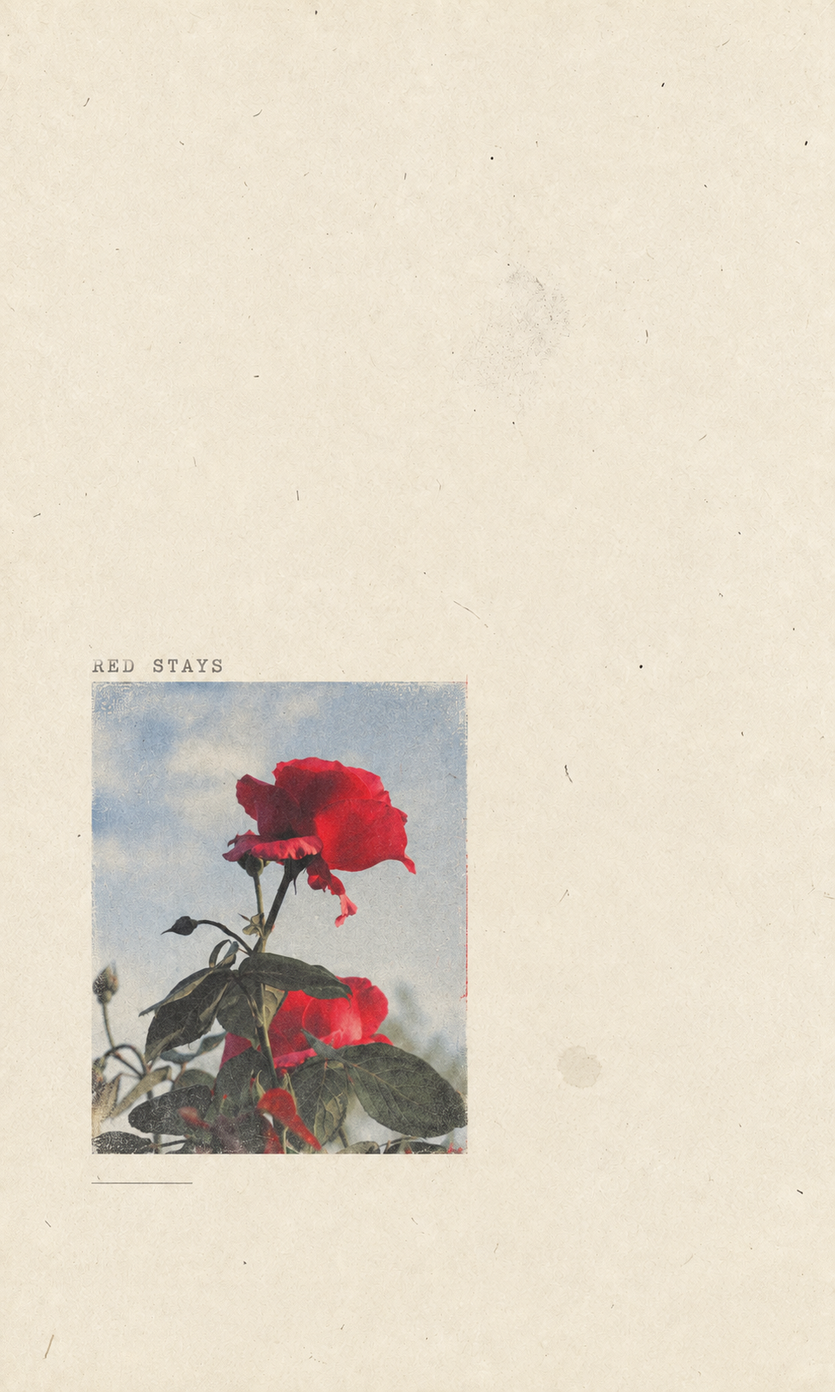
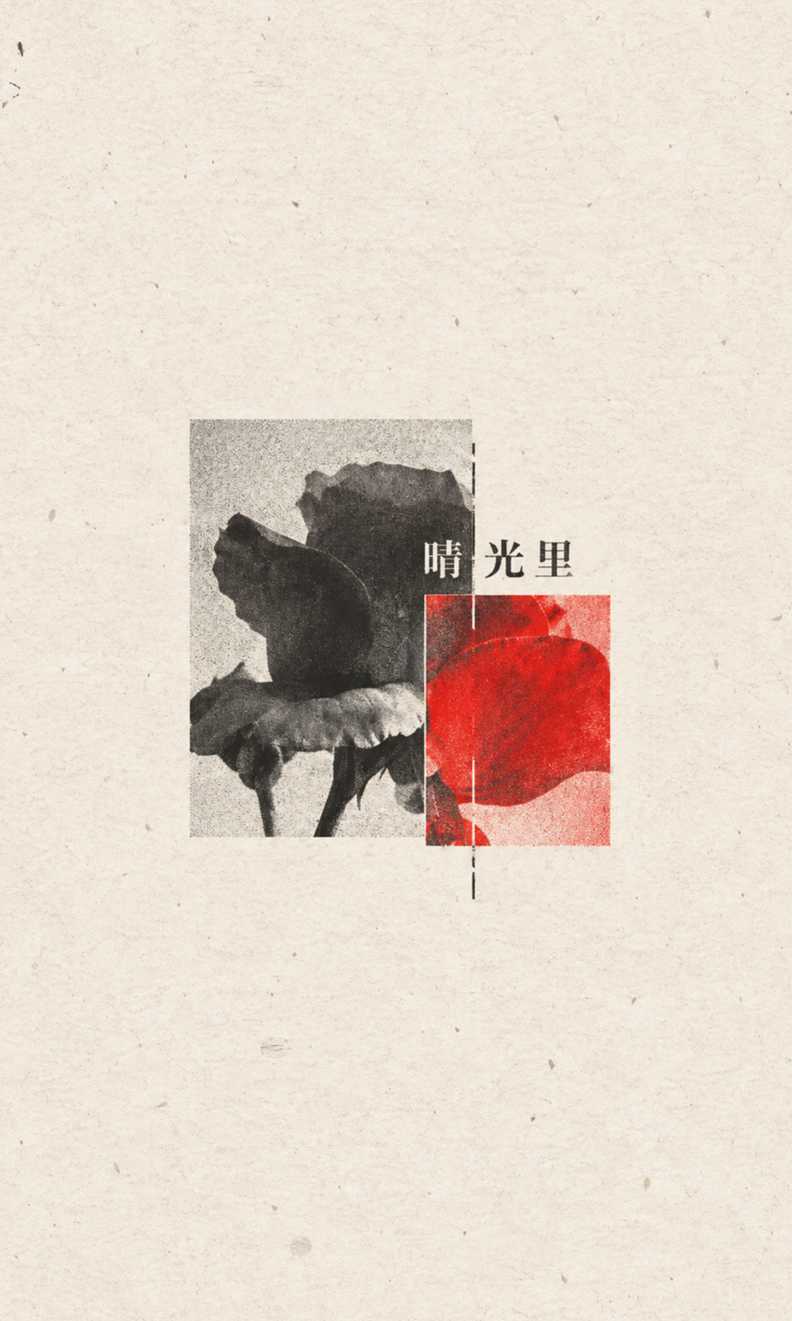
Restore original minimal zine mode

Changed region(s): [[0.0911, 0.3125, 0.7896, 0.8438], [0.6681, 0.75, 0.7289, 0.7812]]

diff --git a/app/api/generate/route.ts b/app/api/generate/route.ts
@@ -17,7 +17,7 @@ import {
 } from "../../photo-domain-geometry";
 import type { RelationshipEvidence, SubjectFrameContact } from "../../photo-domain-geometry";
 import { streamResult } from "../../generation-transport";
-import { createHmac, timingSafeEqual } from "node:crypto";
+import { createHmac, randomInt, timingSafeEqual } from "node:crypto";
 import { readFile } from "node:fs/promises";
 import path from "node:path";
 
@@ -29,7 +29,7 @@ type GenerateRequest = {
   instruction?: string;
   textPosition?: string;
   ratio?: string;
-  minimalLayoutMode?: "locked" | "random";
+  minimalLayoutMode?: "original" | "enlarged";
   mode?: "new" | "refine";
   qualityCorrection?: string;
   stage?: "plan" | "image" | "review";
@@ -197,10 +197,47 @@ const ratioPrompts: Record<string, string> = {
   square: "输出 1:1 方形画面。",
 };
 
-function minimalZineTextRule(instruction?: string, textPosition?: string) {
+const minimalOriginalVariants = [
+  "center-fragment + flat silhouette + fragmented floating letters",
+  "lower-left-float + old printed illustration + edge-pressed phrase",
+  "upper-right-block + opaque printed color block + text inside the block",
+  "dual-panel + clean rectangular photo crop + archive microtext",
+  "irregular-cutout + torn-paper clipping + almost-textless caption",
+  "type-led + fragmented type as image + rough letterpress phrase",
+  "dot-orbit + object specimen + scattered letters",
+  "single-specimen + object specimen + low-contrast ghost text",
+  "diagonal-notes + translucent geometric overlay + diagonal words",
+  "edge-counterweight + abstract texture window + distant microtext",
+] as const;
+
+function minimalZineTextRule(layoutMode: GenerateRequest["minimalLayoutMode"], instruction?: string, textPosition?: string) {
   const requested = instruction?.trim();
-  if (!requested) return "用户没有提供文案。输出必须完全无字，不得自行生成标题、诗句、日期、编号、标点、Logo或水印。";
-  return `用户补充要求：${requested}\n只有其中明确要求添加的文字才可出现，并须逐字准确。文字必须紧贴、轻微压住或嵌入照片视觉簇边缘，最近间距不超过画布短边3%，不得单独放在远处形成第二重心。位置偏好“${textPosition || "AI 自动"}”只能在视觉簇附近执行。若要求不要文字则完全无字。`;
+  const noText = Boolean(requested && /不要文字|不要字|无字|去掉文字|no\s*text|textless/i.test(requested));
+  if (noText || (layoutMode === "enlarged" && !requested)) {
+    return "本次必须完全无字，不得出现标题、诗句、日期、编号、标点、Logo或水印。文字轴必须改由视觉簇内部的非文字关系承担：从照片裁片＋单色色块、两片相邻或轻叠裁片、标本对象＋中断细线、局部照片＋透明几何片中只选一种关系；它们必须共同构成一个编辑事件，不能退化为孤立抠图或整株照片贴纸。";
+  }
+  if (!requested) {
+    return "用户没有提供文案。按 GitHub 原版自行创作一句与当前照片隐喻有关的极短私人注记：中文2至8字或英文2至5词；可加极少档案微字。使用打字机体、旧衬线、等宽或克制小号无衬线，让文字压边、嵌入色块或参与视觉簇关系，不能成为广告标题或远处无关装饰。";
+  }
+  return `用户补充要求：${requested}\n若其中给出明确文案则逐字使用；若只是情绪或主题要求，则据此创作一句中文2至8字或英文2至5词的极短私人注记。文字使用打字机体、旧衬线、等宽或克制小号无衬线，并以压边、嵌入色块、沿裁片边缘或作为粗糙字形对象的方式参与视觉事件。位置偏好“${textPosition || "AI 自动"}”必须服从所选原版配方，不得形成商业标题或与主事件无关的第二重心。`;
+}
+
+function minimalZineCompilerContract(enlarged: boolean, textRule: string) {
+  const geometry = enlarged
+    ? "自定义放大版：强制3:5竖版，唯一视觉簇位于左下区域，整体外接框占全画布22%至25%；低于20%或高于27%均不合格。上方和右侧保持主要开放纸面。"
+    : "GitHub 原版：默认3:5竖版，根据当前照片从 center-fragment、lower-left-float、upper-right-block、dual-panel、irregular-cutout、type-led、dot-orbit、single-specimen、diagonal-notes、edge-counterweight 中选择一个布局族；70%至90%为开放纸面，唯一视觉簇占8%至25%，不得固定套用左下或任何网页案例。";
+  return `格式：{"photoAnalysis":"80至180字，明确照片角色、High或Medium保留等级、可见不变量、情绪与一个可图像化隐喻","recipe":"严格使用八段斜杠记录：[布局族 / 视觉隐喻 / 焦点载体 / 排版模式或无字替代关系 / 唯一强调色及可见载体 / 纹理模式 / 零至三个装饰元素 / 情绪]","finalPrompt":"严格按四段编写的完整极简Zine生图提示词，500至900字"}。严格执行 GitHub 原版 Minimal Zine Poster v0.3.1。${geometry}
+第一段必须写比例、满版纸色、纸纤维/细颗粒/尘点/扫描噪声/轻微老化中的具体表面组合、无边框无样机、开放纸面比例，以及视觉簇的准确位置与占比。
+第二段把输入照片定义为 edit target。普通花草和景物使用 Medium 保留：只锁定主要类别、决定性轮廓和标志色，明确允许明显裁切、缩放、局部去色、印刷化及重新组织；人物、宠物、角色、艺术品和产品使用 High 保留。先提炼一个解释当前内容的可图像化隐喻，再从 faded photo、clean rectangular photo crop、torn-paper clipping、flat silhouette、opaque printed color block、old printed illustration、object specimen、translucent geometric overlay、abstract texture window、fragmented type 中选择一个具体焦点载体。禁止只把整张照片或完整主体缩小贴在纸上。
+第三段执行文字规则：${textRule} 选定一种明确排版模式；无字时必须写出替代排版轴的非文字关系。只用一种具体高纯强调色，并写明它由主体局部、裁片、色块或粗糙字形中的哪一种承载；彩色面积占全画布0.8%至2.5%或视觉簇15%至35%。同时选择一种主纹理和零至三个克制装饰元素，让焦点、文字或替代结构属于同一个印刷世界。
+第四段写平视扫描、哑光吸墨、漫射光、低至中对比及具体情绪；禁止满版场景、商业标题、广告、Logo、CTA、光滑样机、电影光、硬阴影、景深、3D、霓虹、卡通、时尚大片、密集手账、多对象与多色模板。recipe 与 finalPrompt 必须逐项一致，缺少任一配方轴即为不完整方案。`;
+}
+
+function minimalZineGenerationContract(enlarged: boolean, textRule: string) {
+  const modeRule = enlarged
+    ? "自定义放大版：强制3:5竖版，唯一视觉簇位于左下区域并占全画布22%至25%，上方和右侧保留主要纸面。所有内容直接印在同一纸面，不得有投影、翘角、厚度、抬起纸片、层叠纸卡或实体手工样机深度。"
+    : "GitHub 原版：默认3:5竖版，按方案选定的布局族执行，70%至90%为开放纸面，唯一视觉簇占8%至25%，不得固定套用左下构图。所有内容直接印在同一纸面，不得有投影、翘角、厚度、抬起纸片、层叠纸卡或实体手工样机深度。";
+  return `\n输入图是用户唯一的 edit target，不存在第二张风格参考图。${modeRule} 必须把方案中的八段配方逐项变成可见像素：布局族、视觉隐喻、具体焦点载体、排版或无字替代关系、唯一强调色及载体、纹理、装饰和情绪缺一不可。普通花草和景物采用 Medium 保留，只保留主类别、决定性轮廓和标志色，允许强裁切、缩放、局部去色、网点化、复印柔化、重新组织和与色块叠合；不要保留完整原画幅，也不要把完整主体抠成孤立贴纸。人物、宠物、角色、艺术品和产品才采用 High 保留。${textRule} 所有照片、文字与图形必须进入同一平面印刷世界。只用一种缩略图可见的高纯强调色，约占全画布0.8%至2.5%或视觉簇15%至35%。禁止完整照片缩小贴纸、只有抠图没有关系、满版场景、商业广告、Logo、CTA、样机、硬阴影、3D、霓虹、卡通、密集手账或多色模板。`;
 }
 
 const defaultModelChain = [
@@ -276,11 +313,52 @@ function relationshipDomainFallback(subjectBox: { x: number; y: number; width: n
   };
 }
 
-function parseSkillPlan(raw: string, adapterId: string): SkillPlan {
+function firstJsonObject(raw: string) {
   const cleaned = raw.trim().replace(/^```(?:json)?\s*/i, "").replace(/\s*```$/, "");
-  const parsed = JSON.parse(cleaned) as Partial<SkillPlan>;
+  try { return JSON.parse(cleaned) as Record<string, unknown>; } catch { /* extract one complete object below */ }
+  const start = cleaned.indexOf("{");
+  let depth = 0;
+  let quoted = false;
+  let escaped = false;
+  for (let index = start; index >= 0 && index < cleaned.length; index++) {
+    const character = cleaned[index];
+    if (quoted) {
+      if (escaped) escaped = false; else if (character === "\\") escaped = true; else if (character === '"') quoted = false;
+      continue;
+    }
+    if (character === '"') quoted = true;
+    else if (character === "{") depth++;
+    else if (character === "}" && --depth === 0) return JSON.parse(cleaned.slice(start, index + 1)) as Record<string, unknown>;
+  }
+  throw new Error("Skill 没有返回可读取的 JSON 方案。");
+}
+
+function parseSkillPlan(raw: string, adapterId: string): SkillPlan {
+  const parsed = firstJsonObject(raw) as Partial<SkillPlan>;
   if (!parsed.photoAnalysis || !parsed.recipe || !parsed.finalPrompt) throw new Error("Skill 没有返回完整方案。");
   const plan: SkillPlan = { photoAnalysis: parsed.photoAnalysis, recipe: parsed.recipe, finalPrompt: parsed.finalPrompt };
+  if (adapterId === "minimal-zine") {
+    const recipeAxes = plan.recipe.split(/[/／]/).map((part) => part.trim()).filter(Boolean);
+    const promptParagraphs = plan.finalPrompt.split(/\n\s*\n/).map((part) => part.trim()).filter(Boolean);
+    const promptLines = plan.finalPrompt.split(/\n+/).map((part) => part.trim()).filter(Boolean);
+    const designRecord = `${plan.recipe}\n${plan.finalPrompt}`;
+    const hasFourSemanticSections = [
+      /3:5|纸色|纸纤维|开放纸面|负空间/,
+      /edit target|照片|裁片|剪贴|标本|载体/,
+      /排版|文字|短注记|无字|强调色|色块/,
+      /扫描|漫射光|对比|情绪|禁止|避免/,
+    ].every((pattern) => pattern.test(plan.finalPrompt));
+    if (recipeAxes.length < 8) throw new Error("极简 Zine 方案没有完成八段变化配方。");
+    if (promptParagraphs.length < 4 && promptLines.length < 4 && !hasFourSemanticSections) {
+      throw new Error("极简 Zine 方案没有完成原版四段语义结构。");
+    }
+    if (!/照片|裁片|剪裁|裁切|撕纸|剪贴|标本|剪影|插图|色块|几何|纹理窗|字体|字形|片段|碎片|photo|crop|clipping|specimen|silhouette|illustration|ink block|geometric|texture window|fragmented type/i.test(designRecord)) {
+      throw new Error("极简 Zine 方案没有指定可见的焦点载体。");
+    }
+    if (!/半调|网点|复印|印刷|油墨|risograph|凸版|扫描线|错版|纸边|颗粒|halftone|xerox|print|ink|letterpress|misregistration/i.test(designRecord)) {
+      throw new Error("极简 Zine 方案没有指定印刷复现方式。");
+    }
+  }
   if (adapterId === "portrait-relight") {
     const relight = parsed.relight as Partial<NonNullable<SkillPlan["relight"]>> | undefined;
     if (!relight) throw new Error("没有定位到需要补光的人物区域。");
@@ -514,18 +592,21 @@ function scenePaperCollageFallbackPlan(body: GenerateRequest, instruction: strin
 async function compileSkillPlan(apiKey: string, body: GenerateRequest, instruction: string, adapter: typeof skillAdapters[string]) {
   const sourceDimensions = imageDimensions(body.analysisImage || body.image || "");
   const sourceOrientation = sourceDimensions && sourceDimensions.width > sourceDimensions.height ? "landscape" : "portrait";
-  const minimalRandom = body.minimalLayoutMode === "random";
-  const ratioRule = adapter.id === "minimal-zine" && !minimalRandom
-    ? "固定放大版强制输出3:5竖版纸张海报，不得改为原图比例、3:4、横版或方形。"
-    : adapter.id === "minimal-zine" && (body.ratio || "original") === "portrait"
-      ? "输出3:5竖版纸张海报。"
+  const minimalEnlarged = body.minimalLayoutMode === "enlarged";
+  const minimalOriginalVariant = adapter.id === "minimal-zine" && !minimalEnlarged && body.mode !== "refine"
+    ? minimalOriginalVariants[randomInt(minimalOriginalVariants.length)]
+    : "";
+  const ratioRule = adapter.id === "minimal-zine" && minimalEnlarged
+    ? "自定义放大版强制输出3:5竖版纸张海报，不得改为原图比例、3:4、横版或方形。"
+    : adapter.id === "minimal-zine" && (!body.ratio || body.ratio === "original" || body.ratio === "portrait")
+      ? "GitHub 原版默认输出3:5竖版纸张海报。"
     : adapter.id === "gathered-scenes" && (body.ratio || "original") === "original"
     ? sourceOrientation === "landscape"
       ? "保持源图横向阅读，输出5:3横版纸拼海报。"
       : "保持源图纵向阅读，输出3:5竖版纸拼海报。"
     : ratioPrompts[body.ratio || "original"];
   const textRule = adapter.id === "minimal-zine"
-    ? minimalZineTextRule(instruction, body.textPosition)
+    ? minimalZineTextRule(body.minimalLayoutMode || "original", instruction, body.textPosition)
     : adapter.id === "light-ink-wash"
     ? lightInkWashTextRule(instruction, body.textPosition, body.mode)
     : instruction
@@ -535,14 +616,16 @@ async function compileSkillPlan(apiKey: string, body: GenerateRequest, instructi
       : "用户没有补充要求。不得自行添加标题、日期、编号、Logo、水印或虚构信息。";
   const taskRule = body.mode === "refine"
     ? "这是继续修改：输入图是上一版成品。只编译本次修改需要的精确编辑指令，并锁定其他已存在的内容、风格、人物和构图。"
-    : adapter.id === "minimal-zine" && !minimalRandom
-      ? "这是首次生成：使用固定放大版的构图几何，但主体、裁片形状、强调色和隐喻必须来自当前上传照片。网页案例只用于锁定左下位置、22%至25%视觉簇和留白关系，不得复制案例主体或文案。"
+    : adapter.id === "minimal-zine" && minimalEnlarged
+      ? "这是首次生成：执行自定义放大版几何，但仍须从当前照片选择一个视觉隐喻、一个具体焦点载体、一种高纯强调色及载体、一种印刷纹理与零至三个克制装饰元素；无字不等于无设计。"
+    : adapter.id === "minimal-zine"
+      ? `这是首次生成：完整执行 GitHub 原版变化系统。先从当前照片内容中提炼一个视觉隐喻，再让本次抽取的变化轴“${minimalOriginalVariant}”服务于这个隐喻；不得擅自换回更熟悉的布局、焦点载体或排版。继续选择纹理模式、纸色、主强调色及其可见载体、装饰系统与情绪。不能套网页案例或上一版玫瑰构图。`
     : "这是首次生成：根据输入照片独立做出适合这张照片的构图选择，不要复刻网页案例图。";
   const isPortraitRelight = adapter.id === "portrait-relight";
   const outputFormat = isPortraitRelight
     ? `格式：{"photoAnalysis":"60至160字","recipe":"60至180字","finalPrompt":"说明像素级后期方案，不能要求重新生成照片","relight":{"faceBox":{"x":0至1,"y":0至1,"width":0至1,"height":0至1},"personBox":{"x":0至1,"y":0至1,"width":0至1,"height":0至1},"faceExposureEv":0.25至0.60,"subjectExposureEv":0.06至0.26,"highlightCompression":0至0.35,"warmth":-0.12至0.12,"overlayText":"仅在用户明确要求时逐字填写，否则空字符串"}}。Box 必须是输入图中的准确归一化边界框，x/y 是左上角。只定位主要人物；faceBox 包住脸和少量头发，personBox 包住完整可见身体。曝光值必须克制，背景已很亮时不得通过提高全局曝光解决。`
     : adapter.id === "minimal-zine"
-      ? `格式：{"photoAnalysis":"80至180字，明确照片角色、High或Medium保留等级、可见不变量、主题情绪与一个可图像化隐喻","recipe":"100至240字，明确构图模式 / 隐喻 / 焦点载体 / 文字状态 / 唯一强调色及载体 / 纹理 / 情绪","finalPrompt":"严格按四段编写的完整极简Zine生图提示词，500至900字"}。严格执行 GitHub 原版 Minimal Zine Poster v0.3.1。${minimalRandom ? "用户主动选择随机构图：根据当前照片从原版变化系统选择一种布局；保持70%至90%开放纸面，唯一视觉簇可占全画布8%至25%，不得机械复制网页案例。" : "用户选择默认固定放大版：强制3:5竖版，唯一视觉簇固定在左下区域，整体外接框必须占全画布22%至25%；低于20%不合格，高于27%不合格。照片主体必须成为视觉簇主角，上方和右侧保留主要开放纸面；禁止右上小图、中心小图、远端文字和第二视觉重心。网页案例仅用于锁定该几何关系，不得复制案例玫瑰或文案。"} 第二段明确输入照片是 edit target 或 supporting insert，选择 High 或 Medium 保留，并逐项写出必须保持可辨的主体身份、数量、比例、轮廓、标志性颜色和关键细节；只允许裁切、缩放、纸张表面与周围排版改变。只选择一个来自当前照片的视觉隐喻，并用照片裁片、撕纸剪贴、标本式对象、印刷插图、色块或字体对象中的一种具体载体呈现，不能扩展成完整场景。第三段严格遵守本次文字规则：${textRule} 只用一种具体高纯强调色，由主体、剪贴、色块或粗糙字形承载，占全画布约0.8%至2.5%或视觉簇15%至35%，缩略图仍清楚；加入半调、复印柔化、risograph颗粒、凸版渗墨、纸边、扫描线或轻微错版，使照片与允许出现的文字属于同一印刷世界。第四段写平视扫描、漫射光、低至中对比和安静诗性情绪，并禁止满版场景、商业标题、广告、Logo、CTA、光滑样机、电影光、硬阴影、景深、3D、霓虹、卡通、时尚大片、密集手账、多对象和多色模板。`
+      ? minimalZineCompilerContract(minimalEnlarged, textRule)
     : adapter.id === "abstract-editorial"
       ? `格式：{"photoAnalysis":"80至180字，说明照片主体、主轴、层级、负空间、最适合的分界方向及三至六个可提炼关系","recipe":"80至220字，明确真实摄影区、抽象区、分界线和色彩角色","finalPrompt":"生成真实摄影与抽象结构直接相接的编辑成品，500至1000字","photoWindow":{"x":0至1,"y":0至1,"width":0至1,"height":0至1}}。photoWindow 是最终必须使用用户原图像素覆盖的连续矩形区域，必须包含完整核心主体且占画面约42%至68%，不能机械对半。根据照片主轴选择横向或纵向分界：竖向建筑、站立人物或上下层级明显的画面，优先用横向分界，让摄影区覆盖上部或主体所在部分，抽象区承接下部的台阶、地面或节奏；横向运动、左右关系明显时才使用纵向分界。真实摄影区与抽象区必须共用同一坐标和透视关系，直接相接且没有边框、阴影、相框、胶带或纸张样机。抽象区不是主体的第二张插画，不得描摹、复制或重画人物、建筑、花朵或物件；只能从原图提取三至六个决定性关系，转成一种主要形态家族，例如平整矩形与短线、弧线与间隔、台阶折线与重复柱距，最多两个辅助形态家族。抽象区必须有明确的视觉事件和层级，不能只是一整块空色、渐变天空、空白广告牌或几条无意义水平线。色彩只能从原图提取，使用一块主色、一个结构色和最多一个小面积强调色；平整无纹理，无霓虹、发光、镜像、重影、写实复制、渐变和装饰图标。输出无文字，除非用户明确要求。`
     : adapter.id === "gathered-scenes"
@@ -576,7 +659,7 @@ Skill：${adapter.name}
       ],
       response_format: { type: "json_object" },
       reasoning_effort: "minimal",
-      temperature: adapter.id === "gathered-scenes" ? 0.12 : 0.2,
+      temperature: adapter.id === "gathered-scenes" ? 0.12 : adapter.id === "minimal-zine" ? 0.48 : 0.2,
       max_tokens: adapter.id === "gathered-scenes" ? 4200 : 1800,
     }),
     signal: AbortSignal.timeout(90_000),
@@ -771,14 +854,14 @@ async function previewStyleReference(fileName: string) {
 async function reviewGeneratedImage(apiKey: string, body: GenerateRequest, outputImage: string, adapter: typeof skillAdapters[string], timeoutMs: number) {
   const policy = qualityPolicies[adapter.id];
   if (!policy) return undefined;
-  const minimalRandom = body.minimalLayoutMode === "random";
+  const minimalEnlarged = body.minimalLayoutMode === "enlarged";
   const gatheredScoreCaps = adapter.id === "gathered-scenes"
     ? "拾景纸刊强制评分上限：主体身份、脸、表情、姿态、手、解剖、衣服、决定性物体、自然颜色、曝光、透视、归一化位置或大小明显改变，总分不得超过55且 criticalFailure=true；摄影域内部任何明显网点、素描、干刷、拓印、透明颜料或局部重绘，总分不得超过60且 criticalFailure=true；摄影域超过整页60%，总分不得超过68；主体或必要接触/支撑物被裁掉，总分不得超过62；开口是固定窗口、矩形、圆角矩形、对称徽章、贴纸白边或紧贴主体的蒙版，总分不得超过68；外部背景无法对应原图P域之外的真实景物，总分不得超过65；P外出现未分配画板或独立空白内容区，总分不得超过62；外部背景近乎空白、只有毛刺或零星短线，总分不得超过68；纸裁两侧可对应背景的方位、透视、方向、尺度或层级明显断裂，或整体像照片贴到另一张背景上，总分不得超过65；新增人物物体植物建筑、完整第二场景、Logo或水印，总分不得超过55且 criticalFailure=true；出现厚阴影、翘角、层叠卡片或样机深度，总分不得超过65。"
     : "";
   const styleReviewContract = adapter.id === "minimal-zine"
-    ? minimalRandom
-      ? "用户主动选择随机构图。允许按 GitHub 原版变化系统选择布局，但仍必须保持70%至90%开放纸面、一个占8%至25%的视觉簇、一个明确视觉事件和一种高纯强调色。没有明确文案时必须完全无字；有文案时文字须与视觉簇形成一个整体。"
-      : "用户选择固定放大版。强制核对：画布是3:5竖版；唯一视觉簇的整体外接框位于左下区域并占全画布22%至25%，低于20%时总分不得超过68，高于27%时总分不得超过68；上方和右侧保留主要开放纸面；右上小图、中心小图或独立远端文字均不合格。用户没有明确文案时，出现任何标题、诗句、日期、编号或字符，总分不得超过60；用户提供文案时，文字必须紧贴、轻微压住或嵌入照片簇边缘，最近间距不得超过画布短边3%，远处文字形成第二重心时总分不得超过65。"
+    ? minimalEnlarged
+      ? "用户选择自定义放大版。强制核对：3:5竖版，唯一视觉簇位于左下区域并占全画布22%至25%；低于20%或高于27%时总分不得超过68。默认无字；即使无字，也必须出现照片裁片与单色色块、双裁片、标本与中断线或局部照片与几何片中的一种紧密关系。若只是完整主体或完整原图抠图贴在纸上，没有第二个关系载体，总分不得超过60。"
+      : "用户选择 GitHub 原版。强制核对：默认3:5，70%至90%开放纸面，一个占8%至25%的视觉事件；必须清楚表现一种布局族、一个来自照片内容的视觉隐喻、一种具体焦点载体、一种参与视觉事件的排版模式、一种缩略图可见的高纯强调色及载体、统一印刷纹理和安静情绪。若只是把完整原照片缩小、抠图或贴在纸上，缺少隐喻关系、具体载体或编辑结构，总分不得超过58；照片、文字与图形明显不属于同一印刷世界时总分不得超过62；没有用户文案却缺少原版短注记时总分不得超过65；出现任何可见投影、悬浮纸片、翘边、厚纸层或实体拼贴样机深度时总分不得超过58且criticalFailure=true；强调色、装饰或文字若游离于主视觉簇之外形成第二视觉事件，总分不得超过62。"
     : adapter.id === "gathered-scenes"
     ? `对于拾景纸刊按九项验收：1) subjectGeometry：主体和必要接触/支撑物保持原图身份、姿态、透视、归一化位置与大小；2) photoDomainAnchor：摄影域继承原图主体关系域的全画布坐标，从主体原位置向必要支撑物与少量关系环境扩张，不得把摄影域或主体移向左上、中央或固定象限，也不要求主体位于摄影域中心；3) photoDomainCoverage：只有一处摄影域，包含主体关系域但排除大部分背景，面积通常28%至58%且绝不超过60%；4) photoDomainPurity：摄影域从撕边到撕边只能是自然原图，内部没有网点、素描、干刷、拓印、透明颜料或局部绘画；5) relationshipBoundary：撕边由主体—支撑物—背景关系及原图直接可见的空间分界形成，不是固定窗口或紧边抠图；6) fullPageBackground：P外全部属于I背景域，没有未分配画板或独立空白内容区，低信息处仍由源背景色彩、明暗、纹理或方向决定；7) boundaryContinuity：至少两处背景结构或一处宽阔背景表面在撕边两侧保持方位、透视、方向、尺度和层级对应，不能像把照片贴到另一张背景上；8) sourceTraceability：外部每个可辨场景元素均能指回原图且没有完整第二场景或新增场景元素；9) materialAndArtifact：合规材料不能被误判为场景对象，同时禁止Logo、水印、界面、样机与立体纸层。${adapter.id === "gathered-scenes" ? `${scenePaperCollageFullPageTopology}\n${scenePaperCollageLayerOntology}` : ""}${gatheredScoreCaps}拾景纸刊中，暖白纸基底、纸纤维、撕边、印刷质感与扫描颗粒是合规材料，不得因为原图没有这些材料而判为额外场景元素；但材料不能形成第三块内容域。只有确认原图不存在的场景语义元素才属于新增对象。`
     : "仅按当前选中工作流的保留规则与文字许可验收。允许整图绘画化的工作流，不要求存在原图摄影域；风格规定的纸底、笔触和留白属于合规材料。";
@@ -792,7 +875,7 @@ async function reviewGeneratedImage(apiKey: string, body: GenerateRequest, outpu
         { role: "user", content: [
           { type: "image_url", image_url: { url: body.analysisImage || body.image } },
           { type: "image_url", image_url: { url: outputImage } },
-          { type: "text", text: `工作流：${adapter.name}\n工作流要求：${adapter.workflow}\n重点验收：${adapter.review}\n保留规则：${policy.preservation}\n用户补充要求：${adapter.id === "light-ink-wash" ? lightInkWashTextRule(body.instruction, body.textPosition, body.mode) : body.instruction?.trim() || (adapter.id === "gathered-scenes" ? "无；默认优先无字，必要时只允许一行一至四个简单场景词。" : adapter.id === "minimal-zine" ? "无；固定放大版与随机构图均必须完全无字。" : "无；不得自行添加文字。")}` },
+          { type: "text", text: `工作流：${adapter.name}\n工作流要求：${adapter.workflow}\n重点验收：${adapter.review}\n保留规则：${policy.preservation}\n用户补充要求：${adapter.id === "minimal-zine" ? minimalZineTextRule(body.minimalLayoutMode || "original", body.instruction, body.textPosition) : adapter.id === "light-ink-wash" ? lightInkWashTextRule(body.instruction, body.textPosition, body.mode) : body.instruction?.trim() || (adapter.id === "gathered-scenes" ? "无；默认优先无字，必要时只允许一行一至四个简单场景词。" : "无；不得自行添加文字。")}` },
         ] },
       ],
       response_format: { type: "json_object" },
@@ -957,9 +1040,10 @@ async function runGeneration(body: GenerateRequest, apiKey: string, adapter: typ
     ? `\n最高优先级任务：严格执行同一照片P摄影主体域／I绘画背景域的全幅二域构图，并用M拼贴材料层承载。${scenePaperCollageContract}\n只把用户原照片作为编辑目标，不把它当作可自由重画的参考；不要输入案例图或第二张风格图。P不得超过整页60%，内部只能是原图自然摄影；I占据P之外100%的页面，只从同一原图背景转译，低信息处也必须由源背景的颜色、明暗、纹理或方向决定；M是规定的纸张与印刷材料，不是需要从原图匹配的场景对象，也不能成为第三块空白内容域。若上一版只有某一项失败，只修正该失败项，不重新设计已成功的主体、支撑关系、撕边或纸面印痕。`
     : "";
   const minimalGuardrail = adapter.id === "minimal-zine"
-    ? body.minimalLayoutMode === "random"
-      ? `\n输入图1是用户原照片，必须按方案中的 edit target 或 supporting insert 角色及 High/Medium 保留等级处理。输入图2只是 GitHub 原版风格参考；不要复制其中的玫瑰、文案或具体构图。用户主动选择随机构图：保持70%至90%开放纸面，只能有一个占8%至25%的主要视觉事件，并从原版变化系统中选择适合当前照片的布局。主体身份、数量、比例、轮廓、标志性颜色与关键细节保持可辨。${minimalZineTextRule(instruction, body.textPosition)}只使用一种缩略图可见的高纯强调色，所有元素保持同一平面印刷扫描世界。`
-      : `\n输入图1是用户原照片，必须按方案中的 edit target 或 supporting insert 角色及 High/Medium 保留等级处理。输入图2是固定放大版的几何参考：只锁定3:5画布、左下视觉簇、22%至25%整体占比，以及照片与可选文字组成一个紧密整体；不得复制参考图中的玫瑰身份或具体文案。视觉簇整体外接框必须位于左下区域并占全画布22%至25%，照片主体是视觉簇主角，上方和右侧保留主要开放纸面。禁止右上小图、中心小图、低于20%的过小照片、超过27%的过大照片、远端孤立文字和第二视觉重心。主体身份、数量、比例、轮廓、标志性颜色与关键细节保持可辨。${minimalZineTextRule(instruction, body.textPosition)}只使用一种缩略图可见的高纯强调色，所有元素保持同一平面印刷扫描世界。`
+    ? minimalZineGenerationContract(
+        body.minimalLayoutMode === "enlarged",
+        minimalZineTextRule(body.minimalLayoutMode || "original", instruction, body.textPosition),
+      )
     : "";
   const abstractGuardrail = adapter.id === "abstract-editorial"
     ? "\n输入图1是用户原照片，是主体、构图和颜色的唯一事实来源。输入图2是我们自制的结构关系样张，只借鉴‘一块真实摄影区与一块抽象关系区直接相接’的编辑逻辑，严禁复制样张中的建筑、屋檐、台阶、树木、固定上下版式或具体颜色。网页稍后会把 photoWindow 区域覆盖为用户原图像素，所以该区域必须保持与输入图1完全同构图、同位置、同尺度；你重点生成其余抽象区。抽象区必须把当前照片的三至六个关系转成清楚的平面结构，例如层级、轴线、间隔、方向、尺度或负空间，而不是复制一个简化版主体。严禁左右五五分、上下五五分、空蓝面板、渐变色块、几条孤立水平线、第二座建筑、第二个人物、矢量描摹、照片镜像、边框和样机。分界线必须顺着当前照片中的地平线、建筑层级、台阶起点、人物视线或运动方向，并让抽象形态在接缝处承接真实摄影中的结构。"
@@ -1004,9 +1088,7 @@ async function runGeneration(body: GenerateRequest, apiKey: string, adapter: typ
       break;
     }
     try {
-      const styleReferences = adapter.id === "minimal-zine"
-          ? [await previewStyleReference("minimal-zine.png")].filter((value): value is string => Boolean(value))
-        : adapter.id === "abstract-editorial"
+      const styleReferences = adapter.id === "abstract-editorial"
           ? [await previewStyleReference("abstract-editorial.jpg")].filter((value): value is string => Boolean(value))
           : [];
       const imageInputs = [body.image, ...styleReferences];

diff --git a/app/page.tsx b/app/page.tsx
@@ -70,7 +70,7 @@ type GenerationResponse = {
 };
 
 const scenes: Scene[] = [
-  { id: "minimal-zine", name: "极简 Zine", eyebrow: "大片留白 · 微型编辑", description: "在暖白纸面上只留一个小型照片事件，用短字、印刷颗粒和一种高纯颜色制造安静张力。", fidelity: "保留主体，可裁切缩放", preview: "/previews/minimal-zine.png", credit: "GitHub 原版 Skill · gc-minimal-zine-poster v0.3.1", creditUrl: "https://github.com/LiamGvchi/gc-minimal-zine-poster", previewNote: "70%–90% 为开放纸面；视觉簇占 8%–25%。当前玫瑰案例使用放大后的约 24% 版本。" },
+  { id: "minimal-zine", name: "极简 Zine", eyebrow: "大片留白 · 微型编辑", description: "在暖白纸面上只留一个小型编辑事件，用视觉隐喻、短字、印刷颗粒和一种高纯颜色制造安静张力。", fidelity: "保留主体，可裁切与重新组织", preview: "/previews/minimal-zine.png", credit: "GitHub 原版 Skill · gc-minimal-zine-poster v0.3.1", creditUrl: "https://github.com/LiamGvchi/gc-minimal-zine-poster", previewNote: "当前玫瑰图是 GitHub 原版双面板实测成品；它只用于页面预览，不会作为生成参考图。" },
   { id: "abstract-editorial", name: "结构记忆编辑", eyebrow: "真照 + 抽象记忆", description: "忠实保留原照片，再从画面关系中提炼一块克制的抽象视觉面板。", fidelity: "高度保留原照", preview: "/previews/abstract-editorial.jpg", credit: "独立功能实现 · 案例使用你的建筑照片" },
   { id: "gathered-scenes", name: "拾景纸刊", eyebrow: "主体真照 · 背景绘画", description: "根据主体、支撑物和背景关系决定手撕边界：内部保留原图摄影，外部把同一场景背景绘画化。", fidelity: "主体位置与自然摄影锁定", preview: "/previews/gathered-scenes.jpg", credit: "个人 Skill · make-scene-paper-collage", previewNote: "摄影域自适应且不超过整页 60%；内部只能是原图自然摄影，外围绘画元素全部来自同一照片背景。" },
   { id: "scene-distillation", name: "场景抽象", eyebrow: "提取关系 · 重新创作", description: "提取照片中的主体关系、方向和情绪，重新组织成一张独立纸面插画。", fidelity: "允许大幅创作", preview: "/previews/scene-distillation.jpg", credit: "独立功能实现 · 不使用第三方 Skill 内容" },
@@ -92,8 +92,8 @@ const ratios = [
 ];
 
 const minimalLayoutModes = [
-  { id: "locked", label: "固定放大版" },
-  { id: "random", label: "随机构图" },
+  { id: "original", label: "GitHub 原版" },
+  { id: "enlarged", label: "自定义放大版" },
 ] as const;
 
 export default function Home() {
@@ -105,7 +105,7 @@ export default function Home() {
   const [instruction, setInstruction] = useState("");
   const [textPosition, setTextPosition] = useState("AI 自动");
   const [ratio, setRatio] = useState("original");
-  const [minimalLayoutMode, setMinimalLayoutMode] = useState<"locked" | "random">("locked");
+  const [minimalLayoutMode, setMinimalLayoutMode] = useState<"original" | "enlarged">("original");
   const [accessCode, setAccessCode] = useState("");
   const [result, setResult] = useState<string | null>(null);
   const [isGenerating, setIsGenerating] = useState(false);
@@ -436,7 +436,7 @@ export default function Home() {
 
         <div className="assistant-line">
           <span className="assistant-avatar">拾</span>
-          <p>{selectedScene?.id === "light-ink-wash" ? "默认在底部配英文标题和一句简短描述。你可以指定文案与位置，或填写“不要文字”。" : selectedScene?.id === "minimal-zine" ? "极简 Zine 默认不加字。需要文字时请直接填写，文字会贴近照片视觉簇，不会单独飘在远处。" : "是否需要在图片里面加文字？请写下文字内容并确认位置，例如：在左上角添加“夏日散步”。"}</p>
+          <p>{selectedScene?.id === "light-ink-wash" ? "默认在底部配英文标题和一句简短描述。你可以指定文案与位置，或填写“不要文字”。" : selectedScene?.id === "minimal-zine" ? minimalLayoutMode === "original" ? "GitHub 原版会根据照片选择一种编辑配方，并生成一句很短的注记。你可以填写自己的文字，或明确输入“不要文字”。" : "自定义放大版固定左下大视觉簇，默认无字；需要文字时请直接填写，文字会贴近照片视觉簇。" : "是否需要在图片里面加文字？请写下文字内容并确认位置，例如：在左上角添加“夏日散步”。"}</p>
         </div>
 
         <textarea
@@ -452,9 +452,9 @@ export default function Home() {
             <span>构图方式</span>
             <div>
               <div className="chip-row">
-                {minimalLayoutModes.map((item) => <button type="button" key={item.id} className={minimalLayoutMode === item.id ? "chip active" : "chip"} onClick={() => { setMinimalLayoutMode(item.id); if (item.id === "locked") setRatio("portrait"); }}>{item.label}</button>)}
+                {minimalLayoutModes.map((item) => <button type="button" key={item.id} className={minimalLayoutMode === item.id ? "chip active" : "chip"} onClick={() => { setMinimalLayoutMode(item.id); setRatio("portrait"); }}>{item.label}</button>)}
               </div>
-              <small>{minimalLayoutMode === "locked" ? "默认：3:5 竖版，视觉簇固定在左下区域并占画面 22%–25%。" : "按 GitHub 原版变化系统选择其他布局，视觉簇可在 8%–25% 之间变化。"}</small>
+              <small>{minimalLayoutMode === "original" ? "默认：完整执行原版变化系统，选择视觉隐喻、焦点载体、排版、强调色与印刷配方；视觉簇占 8%–25%。" : "固定 3:5 竖版和左下 22%–25% 视觉簇，默认无字；用色块、裁片或关系图形补足编辑结构。"}</small>
             </div>
           </div>
         )}
@@ -469,10 +469,10 @@ export default function Home() {
         <div className="option-group">
           <span>画面比例</span>
           <div className="chip-row">
-            {ratios.map((item) => <button type="button" key={item.id} disabled={(selectedScene?.id === "gathered-scenes" && item.id !== "original") || (selectedScene?.id === "minimal-zine" && minimalLayoutMode === "locked" && item.id !== "portrait")} className={ratio === item.id ? "chip active" : "chip"} onClick={() => setRatio(item.id)}>{item.label}</button>)}
+            {ratios.map((item) => <button type="button" key={item.id} disabled={(selectedScene?.id === "gathered-scenes" && item.id !== "original") || (selectedScene?.id === "minimal-zine" && minimalLayoutMode === "enlarged" && item.id !== "portrait")} className={ratio === item.id ? "chip active" : "chip"} onClick={() => setRatio(item.id)}>{item.label}</button>)}
           </div>
           {selectedScene?.id === "gathered-scenes" && <small>固定工作流保持原图比例与完整坐标，避免缩放或重新取景导致主体偏移。</small>}
-          {selectedScene?.id === "minimal-zine" && minimalLayoutMode === "locked" && <small>固定放大版使用 3:5 竖版；切换“随机构图”后可选择其他比例。</small>}
+          {selectedScene?.id === "minimal-zine" && minimalLayoutMode === "enlarged" && <small>自定义放大版固定使用 3:5 竖版；GitHub 原版默认 3:5，也允许你明确选择其他比例。</small>}
         </div>
 
         <div className="access-code-box">
@@ -493,7 +493,7 @@ export default function Home() {
         <div className="generation-bar">
           <div>
             <strong>{selectedScene?.name ?? "尚未选择场景"}</strong>
-            <span>{selectedScene?.id === "portrait-relight" ? "保持原图比例 · 像素级后期" : selectedScene?.id === "gathered-scenes" ? "保持原图比例 · 原像素固定纸裁" : selectedScene?.id === "minimal-zine" ? `${minimalLayoutMode === "locked" ? "固定放大版" : "随机构图"} · ${selectedRatio} · ${instruction.trim() ? textPosition : "默认无字"}` : `${selectedRatio} · ${textPosition}`}</span>
+            <span>{selectedScene?.id === "portrait-relight" ? "保持原图比例 · 像素级后期" : selectedScene?.id === "gathered-scenes" ? "保持原图比例 · 原像素固定纸裁" : selectedScene?.id === "minimal-zine" ? `${minimalLayoutMode === "original" ? "GitHub 原版" : "自定义放大版"} · ${selectedRatio} · ${instruction.trim() ? textPosition : minimalLayoutMode === "original" ? "自动短注记" : "默认无字"}` : `${selectedRatio} · ${textPosition}`}</span>
           </div>
           <button className="generate-button" type="button" disabled={!canGenerate} onClick={() => void requestGeneration("new")}>
             {isGenerating ? "生成中…" : "生成图片"}

diff --git a/app/skill-runtime.ts b/app/skill-runtime.ts
@@ -14,8 +14,8 @@ export const skillAdapters: Record<string, SkillAdapter> = {
   "minimal-zine": {
     id: "minimal-zine", name: "极简 Zine", implementation: "个人 Skill 适配",
     sourceUrl: "https://github.com/LiamGvchi/gc-minimal-zine-poster",
-    workflow: `严格遵循 GitHub 原版 Minimal Zine Poster v0.3.1。默认使用“固定放大版”：输出3:5竖版、满版暖白哑光纤维纸的平面扫描海报，无边框、无样机；唯一视觉簇放在左下区域，整体外接框占全画布22%至25%，照片主体是视觉簇中的主角，上方和右侧保持大面积开放纸面。只有用户主动选择“随机构图”时，才允许从原版变化系统选择其他布局并把视觉簇放宽到8%至25%。先读图并把用户照片定义为 edit target；普通花草、景物采用 Medium 保留，人物、宠物、角色、艺术品和产品默认采用 High 保留。明确锁定主体身份、数量、比例、轮廓、标志性颜色与关键细节；允许变化仅限裁切、缩放、纸张表面和周围排版。固定放大版中，用户没有明确提供文字时必须完全无字；用户提供文字时，只用一句短语或极少档案微字，紧贴、轻微压住或嵌入照片簇边缘，文字与照片的最近间距不超过画布短边3%，不得把文字单独放在远处形成第二重心。纸张、灰阶摄影和辅助字保持克制，只使用一种清晰的高纯强调色；强调色约占全画布0.8%至2.5%，或视觉簇15%至35%，可由主体、剪贴、色块或粗糙字形承载，缩略图下仍可辨。所有照片、文字和图形通过半调、复印柔化、risograph颗粒、凸版渗墨、扫描线、纸边或轻微错版进入同一印刷世界。随机构图可从 center-fragment、lower-left-float、upper-right-block、dual-panel、irregular-cutout、type-led、dot-orbit、single-specimen、diagonal-notes、edge-counterweight 中按照片选择，不反复套同一模板。成品安静、诗性、疏离、档案或日记感，避免满版场景、商业标题、广告、Logo、CTA、光滑样机、电影光、硬阴影、3D、霓虹、卡通、时尚大片、密集手账和多色模板。`,
-    review: "先识别用户选择的构图方式。固定放大版必须为3:5竖版，唯一视觉簇位于左下区域且整体外接框占全画布22%至25%；低于20%判为过小，高于27%判为过大，上方和右侧必须保有主要开放纸面。随机构图才允许视觉簇在8%至25%及其他原版布局中变化。无明确文案时成图必须完全无字；有文案时文字必须紧贴、压住或嵌入视觉簇边缘，最近间距不超过画布短边3%，不能在远处形成第二重心。继续检查照片角色与保留等级、主体身份、数量、比例、轮廓、关键颜色与细节；只允许一种缩略图可见的高纯强调色，约占全画布0.8%至2.5%或视觉簇15%至35%；必须有纸纤维和统一印刷/扫描质感。满版场景、主体漂移、多个并列事件、广告层级、Logo、CTA、样机深度、硬阴影、3D、霓虹、卡通、密集拼贴或多色失控均不合格。",
+    workflow: `严格遵循 GitHub 原版 Minimal Zine Poster v0.3.1。默认运行“GitHub 原版”：默认3:5竖版、满版暖白或旧纸色纤维纸、70%至90%开放纸面，以及一个占8%至25%的主要视觉事件。先从当前照片提炼一个视觉隐喻，再各选一种布局族、焦点载体、排版模式、纹理模式、纸色、唯一高纯强调色及其可见载体、零至三个装饰元素与情绪；变化必须改变视觉语法，而不只是移动照片。普通花草与景物采用 Medium 保留，只锁定主类别、决定性轮廓与标志色，允许明显裁切、缩放、局部去色、表面印刷化和重新组织；人物、宠物、角色、艺术品和产品采用 High 保留。原版无用户文案时生成一句中文2至8字或英文2至5词的短注记，并让文字参与视觉事件。只有用户主动选择“自定义放大版”时，才固定3:5、左下22%至25%视觉簇并默认无字；无字时必须用照片裁片与单色色块、双裁片、标本与中断线或局部照片与几何片中的一种关系补足编辑结构，不能退化为孤立抠图。所有元素通过半调、复印柔化、risograph颗粒、凸版渗墨、扫描线、纸边或轻微错版进入同一平面印刷世界。禁止把单张网页预览图作为生成参考。`,
+    review: "先识别 GitHub 原版或自定义放大版。原版必须默认3:5、70%至90%开放纸面、一个8%至25%的视觉事件，并能辨认所选布局族、视觉隐喻、具体焦点载体、参与事件的排版、唯一高纯强调色及载体、印刷纹理和情绪；只缩小或抠出完整原照片、没有隐喻关系、没有编辑结构、强调色不清楚或元素不在同一印刷世界时不合格。自定义放大版必须为3:5、左下视觉簇22%至25%、默认无字且包含非文字编辑关系；低于20%或高于27%不合格。有文案时须参与视觉簇而非形成远端第二重心。满版场景、孤立照片贴纸、主体漂移、多个并列事件、广告层级、Logo、CTA、样机深度、硬阴影、3D、霓虹、卡通、密集拼贴或多色失控均不合格。",
   },
   "abstract-editorial": {
     id: "abstract-editorial", name: "结构记忆编辑", implementation: "独立功能实现",
